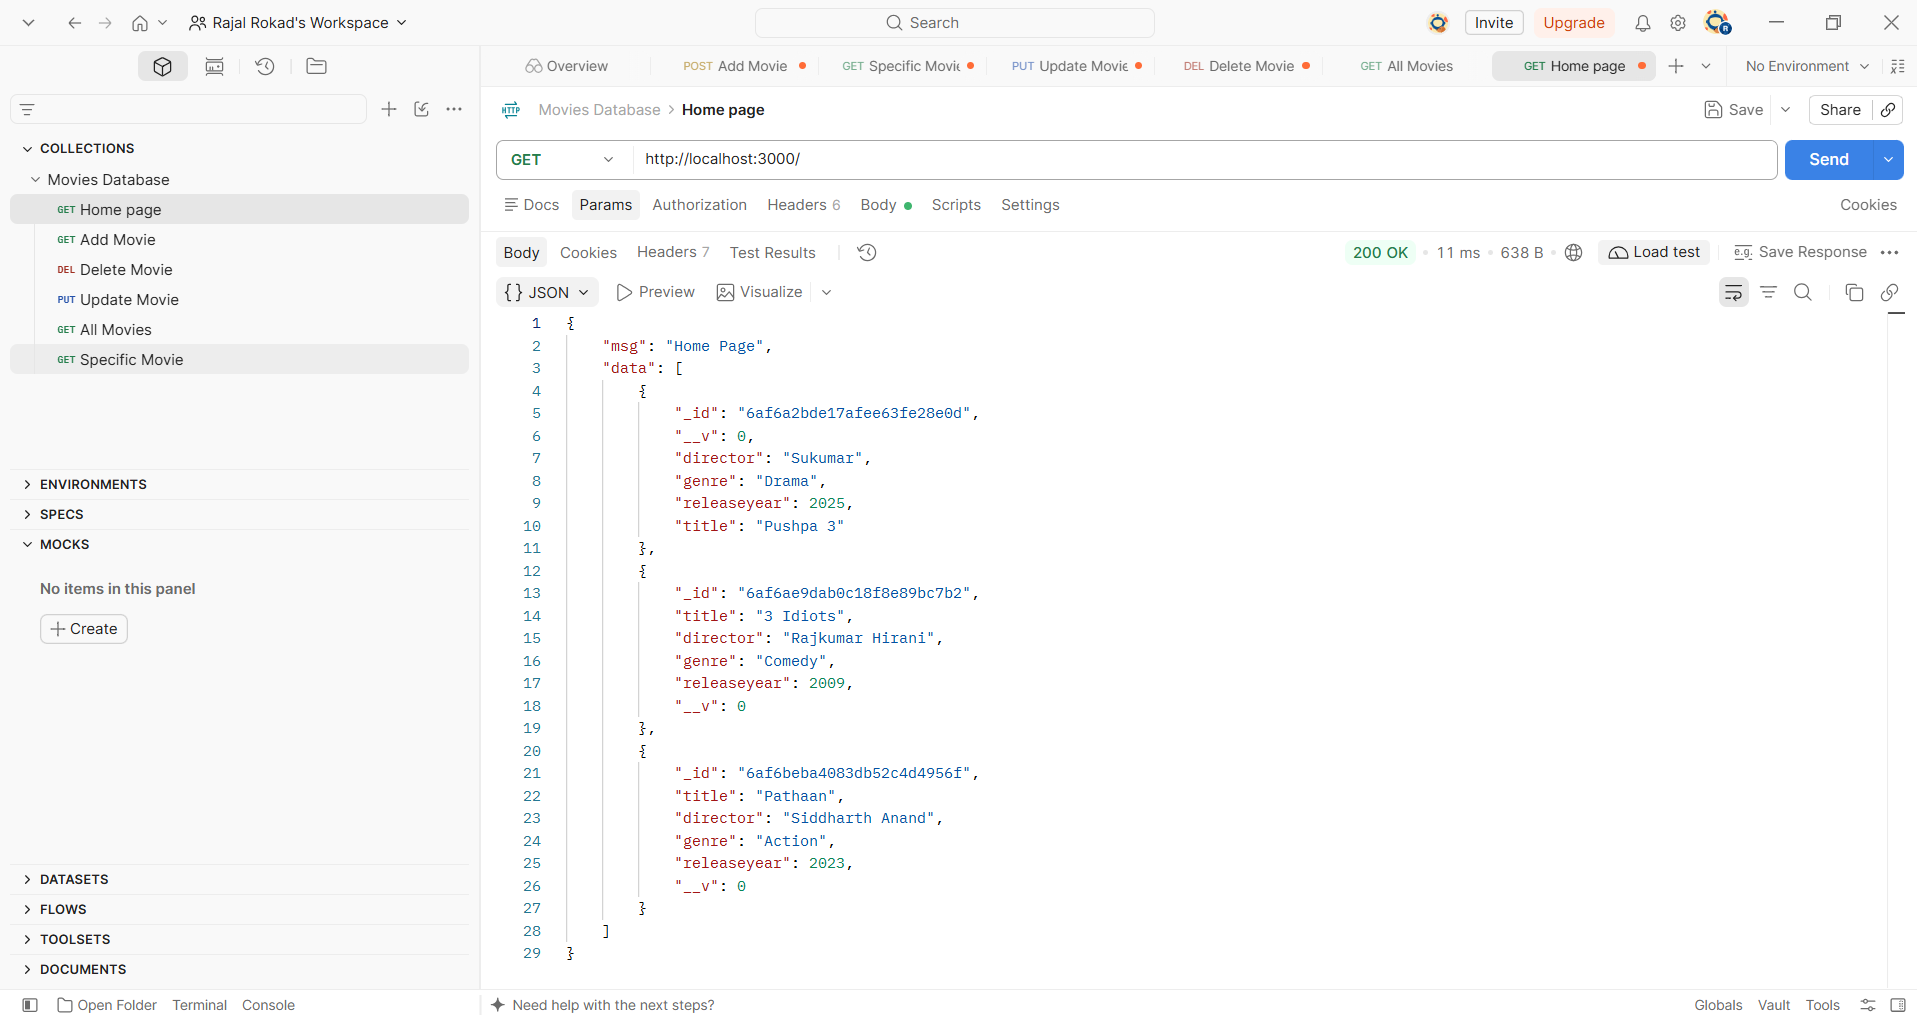
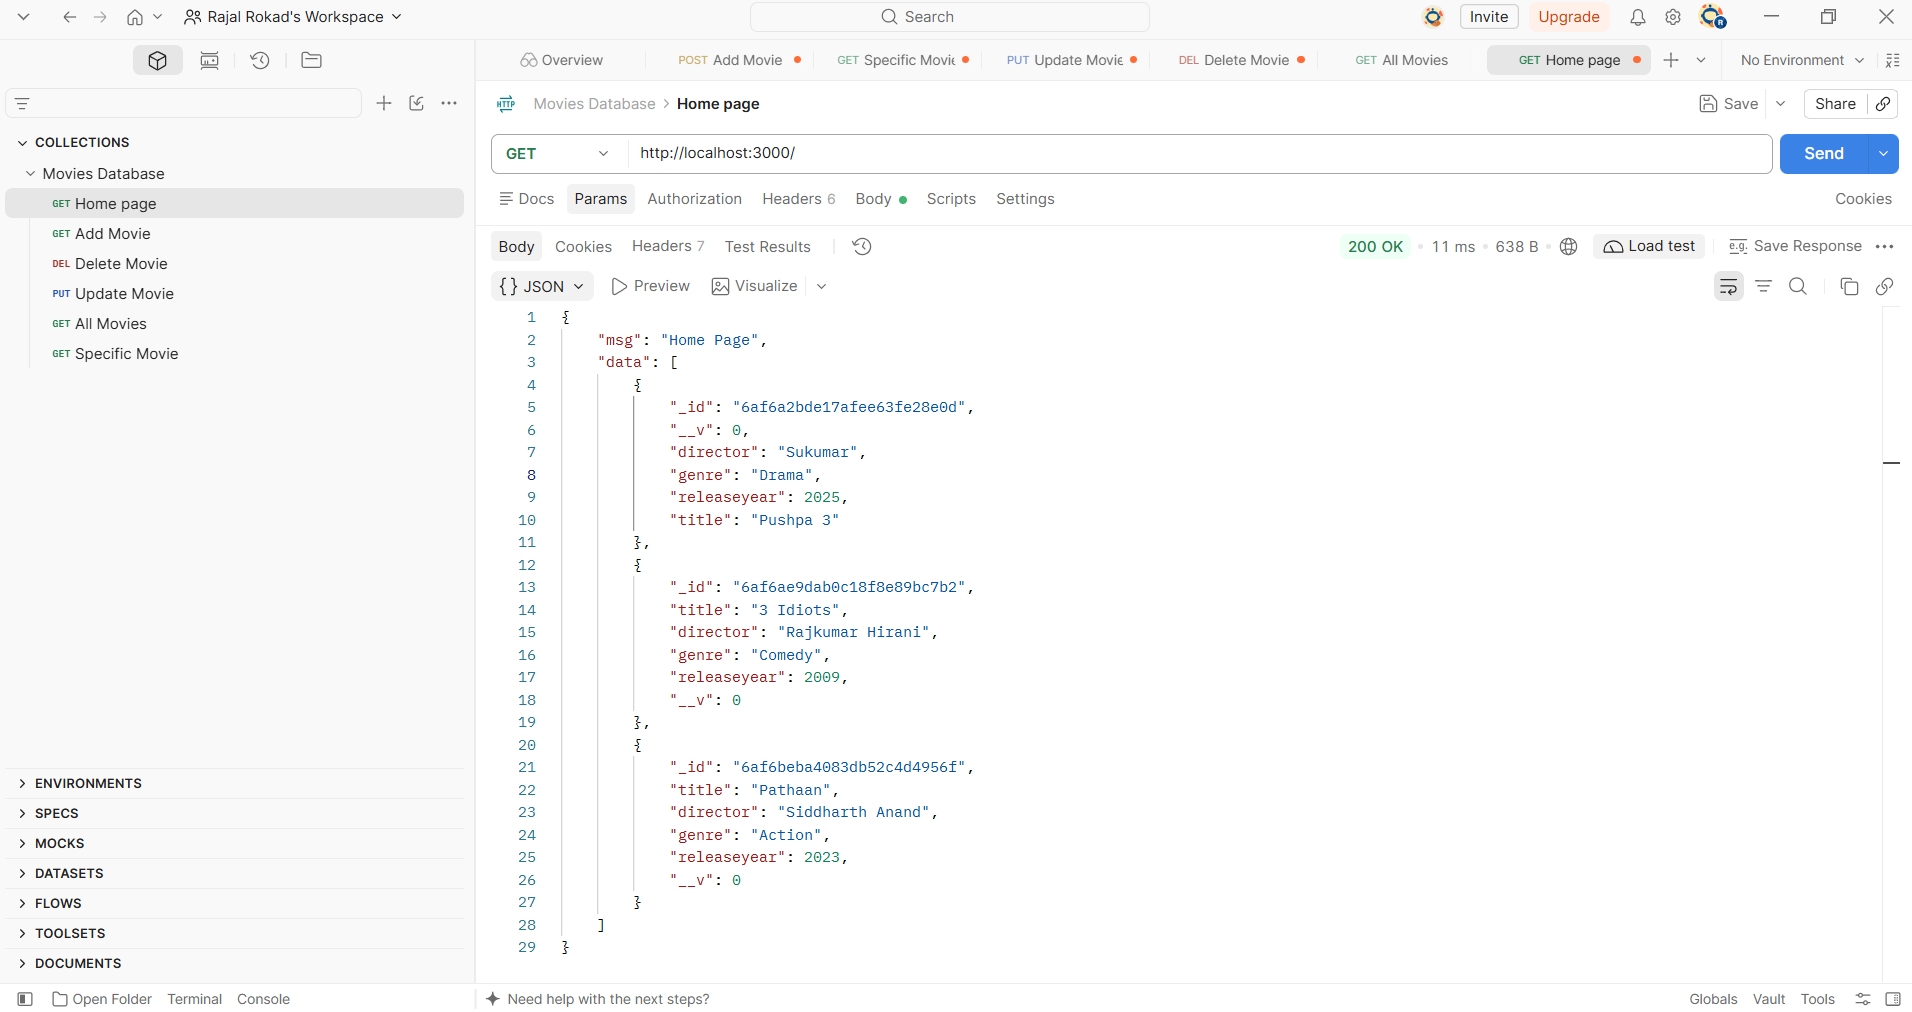
change

diff --git a/5.MovieDB CRUD project-1/app.js b/5.MovieDB CRUD project-1/app.js
@@ -34,8 +34,6 @@ app.get("/" , async(req,res)=>{
 
 app.post("/addmovie" , async(req,res)=>{
     const movieData = await movie.create(req.body);
-    console.log(req.body);
-    
 
     res.json({
         msg : "Movie Added Successfully!",

diff --git a/5.MovieDB CRUD project-1/README.md b/5.MovieDB CRUD project-1/README.md
@@ -11,6 +11,13 @@ A simple Movie Management REST API built using **Node.js, Express.js, MongoDB, a
 - Nodemon
 - Postman
 
+## ✨ Features
+
+- Add Movie
+- Get All Movies
+- Get Specific Movie
+- Update Movie
+- Delete Movie 
 
 ## 📁 Project Structure
 
@@ -32,7 +39,6 @@ MovieDB-CRUD-project-1/
 - **Read:** Get all movies or find a specific movie.
 - **Update:** Update existing movie details using Movie ID.
 - **Delete:** Delete a movie using Movie ID.
-
 
 
 ## 📸 Screenshots
@@ -62,3 +68,5 @@ MovieDB-CRUD-project-1/
 
 
 ## 📽 Video Link
+
+https://drive.google.com/file/d/1YA5mLi7Rpt1MR24-7d1Ajqonu4yIN8az/view?usp=sharing
